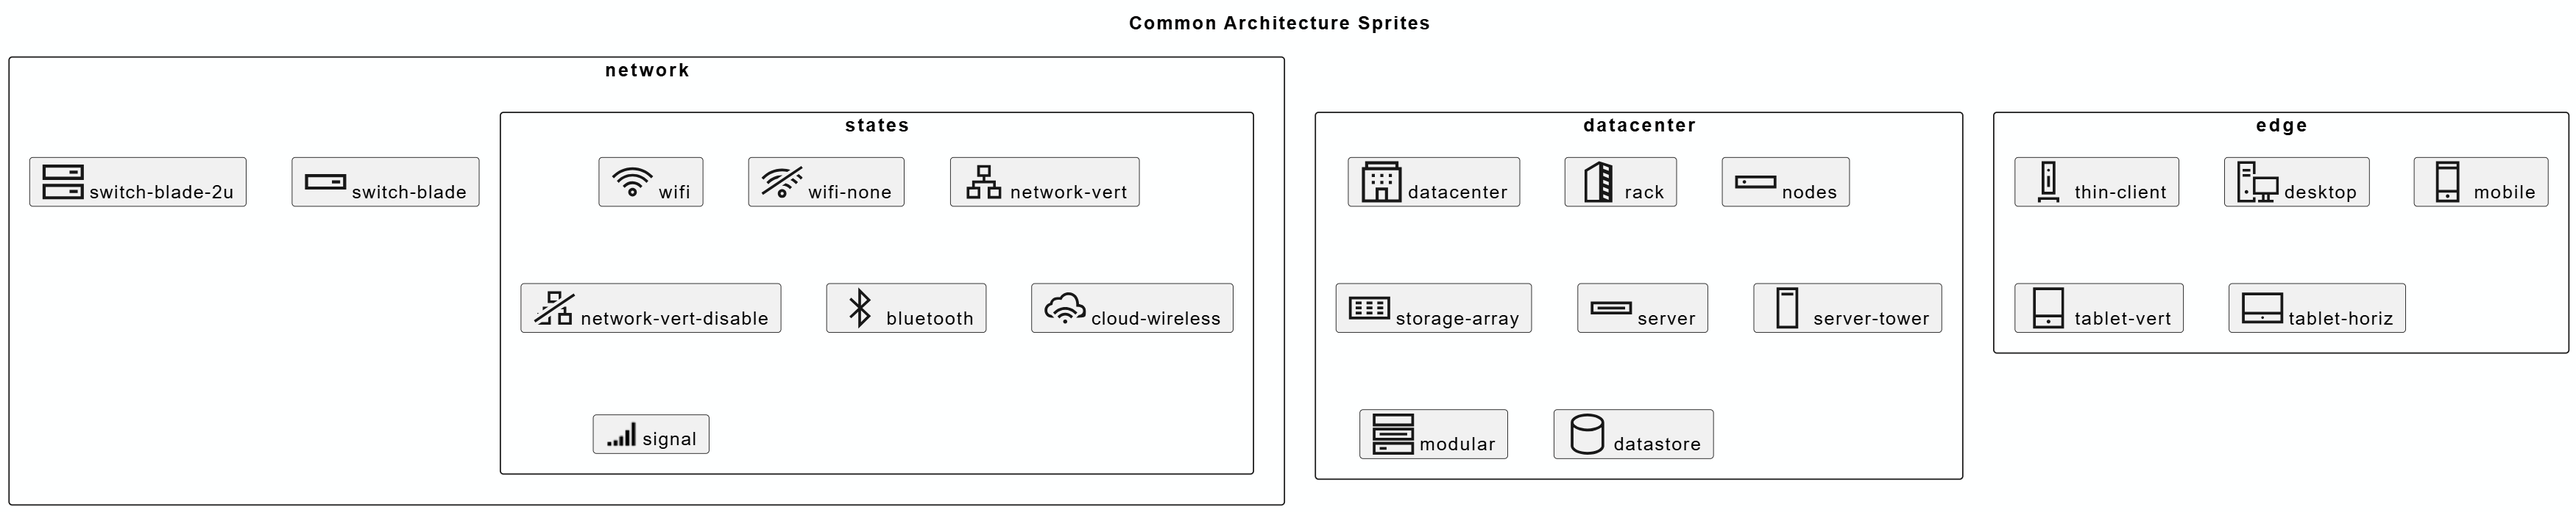
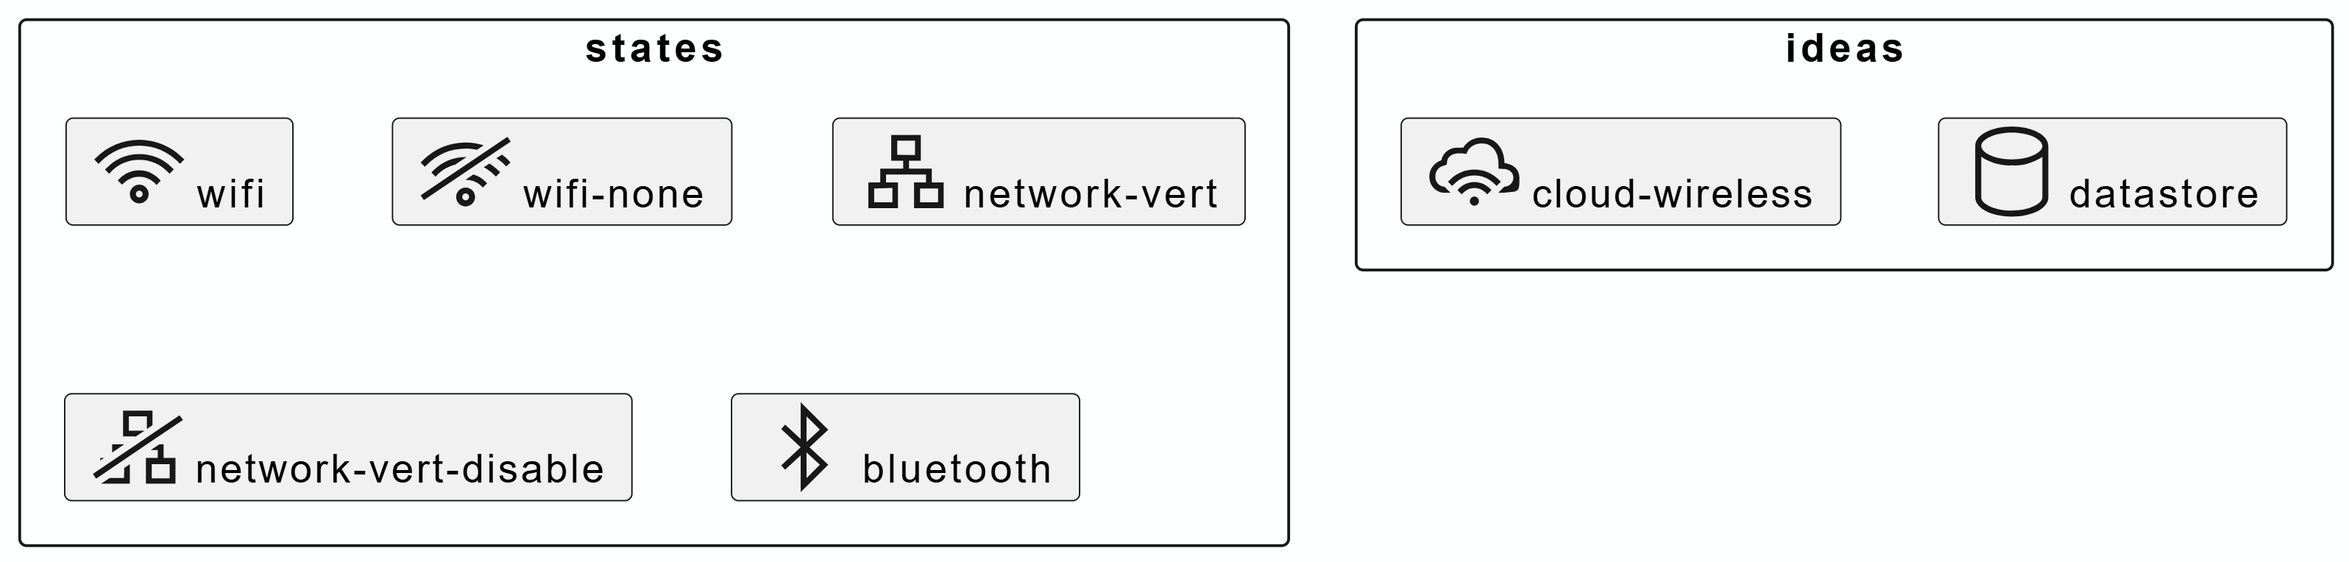
sprite libraries

diff --git a/README.md b/README.md
@@ -6,34 +6,55 @@ PlantUML and Mermaid snippet repository for
 
 # Simple Sprite Library
 
-## Common Architecture Sprites
-<img src="./img/arch.png" width=800>
+
+## Device Sprites
+<img src="./img/devices.png" width=800>
 <details>
 
 <summary>Show Code</summary>
   
 ```puml
-@startuml
-title Common Architecture Sprites
-skinparam backgroundcolor #FEFFFF
-!include <tupadr3/font-awesome/signal>
-sprite datacenter <svg width="32" height="32" viewBox="0 0 32 32">
-    <path d="M28.94 4.56v-4.56h-25.88v4.56h-2.5v27.44h30.88v-27.44zM5.44 2.36h21.12v2.18h-21.12zM18.44 29.64h-4.88v-6.94h4.88zM29.060 29.64h-8.26v-9.3h-9.6v9.3h-8.26v-22.72h26.12zM8.22 9.84h2.36v2.36h-2.36zM14.84 9.84h2.36v2.36h-2.36zM21.44 9.84h2.36v2.36h-2.36zM8.22 15.22h2.36v2.38h-2.36zM14.84 15.22h2.36v2.38h-2.36zM21.44 15.22h2.36v2.38h-2.36z"></path>
- 
-   </svg> 
 
-sprite switch-blade <svg width="32" height="32" viewBox="0 0 32 32">
-     <path d="M0 10v12h32v-12zM29.56 19.6h-27.12v-7.18h27.12zM20.92 14.78h6.34v2.44h-6.34z"></path>
-   </svg>
-sprite switch-blade-2u <svg width="32" height="32" viewBox="0 0 32 32">
-    <path d="M0 2.5v12h32v-12zM29.56 12h-27.12v-7.060h27.12zM20.92 7.28h6.34v2.44h-6.34zM0 29.5h32v-12h-32zM2.44 20h27.12v7.16h-27.12zM20.92 22.26h6.34v2.44h-6.34z"></path>
-   </svg>
+@startuml
+skinparam backgroundcolor #FEFFFF
+
 sprite storage-array <svg width="32" height="32" viewBox="0 0 32 32">
     <path d="M0 7.2v17.6h32v-17.6zM29.86 22.66h-27.72v-13.32h27.72zM13.64 11.020h4.6v2.12h-4.6zM13.64 14.9h4.6v2.12h-4.6zM13.64 18.86h4.6v2.12h-4.6zM22 11.020h4.6v2.12h-4.6zM22 14.9h4.6v2.12h-4.6zM22 18.86h4.6v2.12h-4.6zM5.24 11.020h4.6v2.12h-4.6zM5.24 14.9h4.6v2.12h-4.6zM5.24 18.86h4.6v2.12h-4.6z"></path>
    </svg>   
 sprite server <svg width="32" height="32" viewBox="0 0 32 32">
     <path d="M0 11.040v10h32v-10zM29.86 18.82h-27.72v-5.64h27.72zM5.34 14.94h21.32v2.12h-21.32z"></path>
    </svg>
+
+sprite modular <svg width="32" height="32" viewBox="0 0 32 32">
+    <path d="M0 20.96h32v-10h-32zM2.14 13.18h27.72v5.64h-27.72zM0 0v10h32v-10zM29.86 7.78h-27.72v-5.64h27.72zM0 32h32v-10h-32zM2.14 24.22h27.72v5.64h-27.72zM5.34 14.94h21.32v2.12h-21.32zM5.34 26h5.34v2.12h-5.34z"></path>
+   </svg>   
+   
+sprite node <svg width="32" height="32" viewBox="0 0 32 32">
+    <path d="M0 11.040v10h32v-10zM29.86 18.82h-27.72v-5.64h27.72zM7.16 17.38c0.762 0 1.38-0.618 1.38-1.38s-0.618-1.38-1.38-1.38c-0.762 0-1.38 0.618-1.38 1.38v0c0 0.762 0.618 1.38 1.38 1.38v0z"></path>
+</svg>
+
+sprite rack <svg width="32" height="32" viewBox="0 0 32 32">
+    <path d="M16.42 0l-11.2 6.62v25.38h21.58v-28.7zM16.42 29.88h-9.1v-22l9.22-5.5v27.5zM23.84 29.88v0l-4.16-1.6v-2.62l4.24 1.68v2.54zM23.84 24.3l-4.24-1.64v-2.66l4.24 1.68v2.56zM23.84 18.66l-4.18-1.62v-2.62l4.34 1.68v2.56zM23.84 13.040l-4.18-1.62v-2.62l4.34 1.68v2.56zM23.84 7.42l-4.18-1.62v-2.62l4.34 1.68v2.56z"></path>
+   </svg> 
+sprite datacenter <svg width="32" height="32" viewBox="0 0 32 32">
+    <path d="M28.94 4.56v-4.56h-25.88v4.56h-2.5v27.44h30.88v-27.44zM5.44 2.36h21.12v2.18h-21.12zM18.44 29.64h-4.88v-6.94h4.88zM29.060 29.64h-8.26v-9.3h-9.6v9.3h-8.26v-22.72h26.12zM8.22 9.84h2.36v2.36h-2.36zM14.84 9.84h2.36v2.36h-2.36zM21.44 9.84h2.36v2.36h-2.36zM8.22 15.22h2.36v2.38h-2.36zM14.84 15.22h2.36v2.38h-2.36zM21.44 15.22h2.36v2.38h-2.36z"></path>
+ 
+   </svg> 
+sprite switch-blade-2u <svg width="32" height="32" viewBox="0 0 32 32">
+    <path d="M0 2.5v12h32v-12zM29.56 12h-27.12v-7.060h27.12zM20.92 7.28h6.34v2.44h-6.34zM0 29.5h32v-12h-32zM2.44 20h27.12v7.16h-27.12zM20.92 22.26h6.34v2.44h-6.34z"></path>
+   </svg>
+sprite switch-blade <svg width="32" height="32" viewBox="0 0 32 32">
+     <path d="M0 10v12h32v-12zM29.56 19.6h-27.12v-7.18h27.12zM20.92 14.78h6.34v2.44h-6.34z"></path>
+   </svg>
+sprite tablet-vert <svg width="32" height="32" viewBox="0 0 32 32">
+    <path d="M4 0v32h24v-32zM26 2.14v19.020h-19.88v-19.020zM6.12 29.86v-6.58h19.76v6.58zM17.48 26.52c0 0.817-0.663 1.48-1.48 1.48s-1.48-0.663-1.48-1.48c0-0.817 0.663-1.48 1.48-1.48v0c0.817 0 1.48 0.663 1.48 1.48v0z"></path>
+   </svg>   
+sprite tablet-horiz <svg width="32" height="32" viewBox="0 0 32 32">
+    <path d="M0 4v24h32v-24zM29.86 6.12v12.88h-27.72v-12.88zM2.14 25.88v-4.76h27.72v4.76zM17.060 23.46c0 0.585-0.475 1.060-1.060 1.060s-1.060-0.475-1.060-1.060c0-0.585 0.475-1.060 1.060-1.060v0c0.585 0 1.060 0.475 1.060 1.060v0z"></path>
+   </svg>   
+sprite thin-client <svg width="32" height="32" viewBox="0 0 32 32">
+    <path d="M21.34 0h-10.68v25.78h10.68zM19.2 23.64h-6.4v-21.5h6.42v21.5zM17.080 6.82c0.003 0.030 0.005 0.065 0.005 0.1 0 0.596-0.484 1.080-1.080 1.080-0.002 0-0.003 0-0.005 0h0c-0.619 0-1.12-0.501-1.12-1.12s0.501-1.12 1.12-1.12v0c0 0 0 0 0 0 0.589 0 1.069 0.472 1.080 1.059l0 0.001zM14.94 11.38h2.14v8.62h-2.14zM7.76 28v4h2.24v-2h12.2v2h2.14v-4z"></path>
+   </svg> 
 sprite server-tower <svg width="32" height="32" viewBox="0 0 32 32">
     <path d="M7.6 0v32h16.8v-32zM22.28 29.86h-12.56v-27.72h12.56zM11.4 4.2h9.2v2.12h-9.2z"></path>
    </svg>
@@ -42,26 +63,47 @@ sprite desktop <svg width="32" height="32" viewBox="0 0 32 32">
    </svg>   
 sprite mobile <svg width="32" height="32" viewBox="0 0 32 32">
     <path d="M6.92 0v32h18.16v-32zM22.92 2.14v2h-13.86v-2zM22.92 6.26v16h-13.86v-16zM9.060 29.86v-5.48h13.88v5.48zM17.4 27.080c0 0.773-0.627 1.4-1.4 1.4s-1.4-0.627-1.4-1.4c0-0.773 0.627-1.4 1.4-1.4v0c0.773 0 1.4 0.627 1.4 1.4v0z"></path>
-   </svg>   
-sprite tablet-vert <svg width="32" height="32" viewBox="0 0 32 32">
-    <path d="M4 0v32h24v-32zM26 2.14v19.020h-19.88v-19.020zM6.12 29.86v-6.58h19.76v6.58zM17.48 26.52c0 0.817-0.663 1.48-1.48 1.48s-1.48-0.663-1.48-1.48c0-0.817 0.663-1.48 1.48-1.48v0c0.817 0 1.48 0.663 1.48 1.48v0z"></path>
-   </svg>   
-sprite tablet-horiz <svg width="32" height="32" viewBox="0 0 32 32">
-    <path d="M0 4v24h32v-24zM29.86 6.12v12.88h-27.72v-12.88zM2.14 25.88v-4.76h27.72v4.76zM17.060 23.46c0 0.585-0.475 1.060-1.060 1.060s-1.060-0.475-1.060-1.060c0-0.585 0.475-1.060 1.060-1.060v0c0.585 0 1.060 0.475 1.060 1.060v0z"></path>
-   </svg>   
-sprite modular <svg width="32" height="32" viewBox="0 0 32 32">
-    <path d="M0 20.96h32v-10h-32zM2.14 13.18h27.72v5.64h-27.72zM0 0v10h32v-10zM29.86 7.78h-27.72v-5.64h27.72zM0 32h32v-10h-32zM2.14 24.22h27.72v5.64h-27.72zM5.34 14.94h21.32v2.12h-21.32zM5.34 26h5.34v2.12h-5.34z"></path>
-   </svg>   
-sprite cloudiq <svg width="32" height="32" viewBox="0 0 32 32">
-    <path d="M0 15.16h2.14v7.3h-2.14zM29.86 16.96h2.14v5.5h-2.14zM4.3 12h2.14v12.98h-2.14zM8.6 6.98h2.12v18h-2.12zM12.88 6.98h2.14v18h-2.14zM17.18 12h2.12v12.98h-2.12zM21.46 11.24h2.14v13.78h-2.14zM25.76 15.16h2.12v9.86h-2.12z"></path>
    </svg>
+
+rectangle infrastructure {
+card "<$datacenter> datacenter"
+card "<$rack> rack"
+card "<$modular> modular"
+}
+
+rectangle compute {
+card "<$server> server"
+card "<$storage-array> storage-array"
+card "<$node> node"
+}
+
+rectangle network {
+card "<$switch-blade> switch-blade"
+card "<$switch-blade-2u> switch-blade-2u"
+}
+rectangle edge {
+   card "<$thin-client> thin-client"
+   card "<$desktop> desktop"
+   card "<$mobile> mobile"
+   card "<$tablet-vert> tablet-vert"
+   card "<$tablet-horiz> tablet-horiz"
+   card "<$mobile> mobile"
+   }
+@enduml
+
+```
+</details>
+
+## Architecture Sprites
+<img src="./img/arch.png" width=800>
+<details>
+
+<summary>Show Code</summary>
+  
+```puml
+@startuml
+skinparam backgroundcolor #FEFFFF
    
-sprite nodes <svg width="32" height="32" viewBox="0 0 32 32">
-    <path d="M0 11.040v10h32v-10zM29.86 18.82h-27.72v-5.64h27.72zM7.16 17.38c0.762 0 1.38-0.618 1.38-1.38s-0.618-1.38-1.38-1.38c-0.762 0-1.38 0.618-1.38 1.38v0c0 0.762 0.618 1.38 1.38 1.38v0z"></path>
-   </svg> 
-sprite thin-client <svg width="32" height="32" viewBox="0 0 32 32">
-    <path d="M21.34 0h-10.68v25.78h10.68zM19.2 23.64h-6.4v-21.5h6.42v21.5zM17.080 6.82c0.003 0.030 0.005 0.065 0.005 0.1 0 0.596-0.484 1.080-1.080 1.080-0.002 0-0.003 0-0.005 0h0c-0.619 0-1.12-0.501-1.12-1.12s0.501-1.12 1.12-1.12v0c0 0 0 0 0 0 0.589 0 1.069 0.472 1.080 1.059l0 0.001zM14.94 11.38h2.14v8.62h-2.14zM7.76 28v4h2.24v-2h12.2v2h2.14v-4z"></path>
-   </svg> 
 sprite datastore <svg width="32" height="32" viewBox="0 0 32 32">
     <path d="M16 0c-7.28 0-13 3.020-13 6.9 0 0.18 0 18.4 0 18.58 0.36 3.72 5.94 6.52 13 6.52s12.58-2.78 12.98-6.46c0-0.22 0-18.46 0-18.64 0.020-3.88-5.7-6.9-12.98-6.9zM16 2.14c6.4 0 10.86 2.5 10.86 4.76s-4.46 4.76-10.86 4.76-10.86-2.52-10.86-4.76 4.46-4.76 10.86-4.76zM16 29.86c-6.24 0-10.64-2.36-10.86-4.52v-14.62c2.811 1.94 6.291 3.099 10.042 3.099 0.288 0 0.574-0.007 0.858-0.020l-0.040 0.002c0.244 0.012 0.53 0.019 0.818 0.019 3.751 0 7.231-1.159 10.102-3.138l-0.060 0.039v14.58c-0.24 2.2-4.66 4.56-10.86 4.56z"></path>
    </svg> 
@@ -87,48 +129,23 @@ sprite network-vert-disable <svg width="32" height="32" viewBox="0 0 32 32">
     <path d="M11.080 26.96h-5.080l-3.040 2h10.18v-6.96l-2 1.38zM2.64 19.84v0.88l1.36-0.88zM25.14 14.98h-1.48l-3.060 2h2.48v2.8h-4.22v9.18h10.5v-9.12h-4.22v-4.86zM27.3 22v5.060h-6.38v-5.060zM6.86 14.98v2.9l4.3-2.9zM15 12.38l0.32-0.22 3.060-2h-5.58v-5.12h6.4v4.5l2-1.38v-5.18h-10.46v9.18h4.26zM32 6.36l-1.16-1.7-30.84 20.82 1.16 1.72 18-12.22z"></path>
    </svg> 
 
-rectangle network {   
-   card "<$switch-blade> switch-blade"
-   card "<$switch-blade-2u> switch-blade-2u"
 
-rectangle states {
-   card "<$wifi> wifi"
-   card "<$wifi-none> wifi-none"
-   card "<$network-vert> network-vert"
-   card "<$network-vert-disable> network-vert-disable"
-   card "<$bluetooth> bluetooth"
-   card "<$cloud-wireless> cloud-wireless"
-   card "<$signal*.5> signal"
-   }
-
+rectangle connectivity {
+card "<$wifi> wifi"
+card "<$wifi-none> wifi-none"
+card "<$network-vert> network-vert"
+card "<$network-vert-disable> network-vert-disable"
+card "<$bluetooth> bluetooth"
 }
 
-rectangle datacenter {
-   card "<$datacenter> datacenter"
-   card "<$rack> rack"
-   card "<$nodes> nodes"
-   card "<$storage-array> storage-array"
-   card "<$server> server"
-   card "<$server-tower> server-tower"
-   card "<$modular> modular"
-   card "<$nodes> nodes"
-   card "<$datastore> datastore"
-   }
 
-rectangle edge {
-   card "<$thin-client> thin-client"
-   card "<$desktop> desktop"
-   card "<$mobile> mobile"
-   card "<$tablet-vert> tablet-vert"
-   card "<$tablet-horiz> tablet-horiz"
-   card "<$mobile> mobile"
-   }
+rectangle ideas {
+card "<$datastore> datastore"
+card "<$cloud-wireless> cloud-wireless"
+}
 
 @enduml
-
-
 ```
-</details>
 
 # Diagram as Code
 
